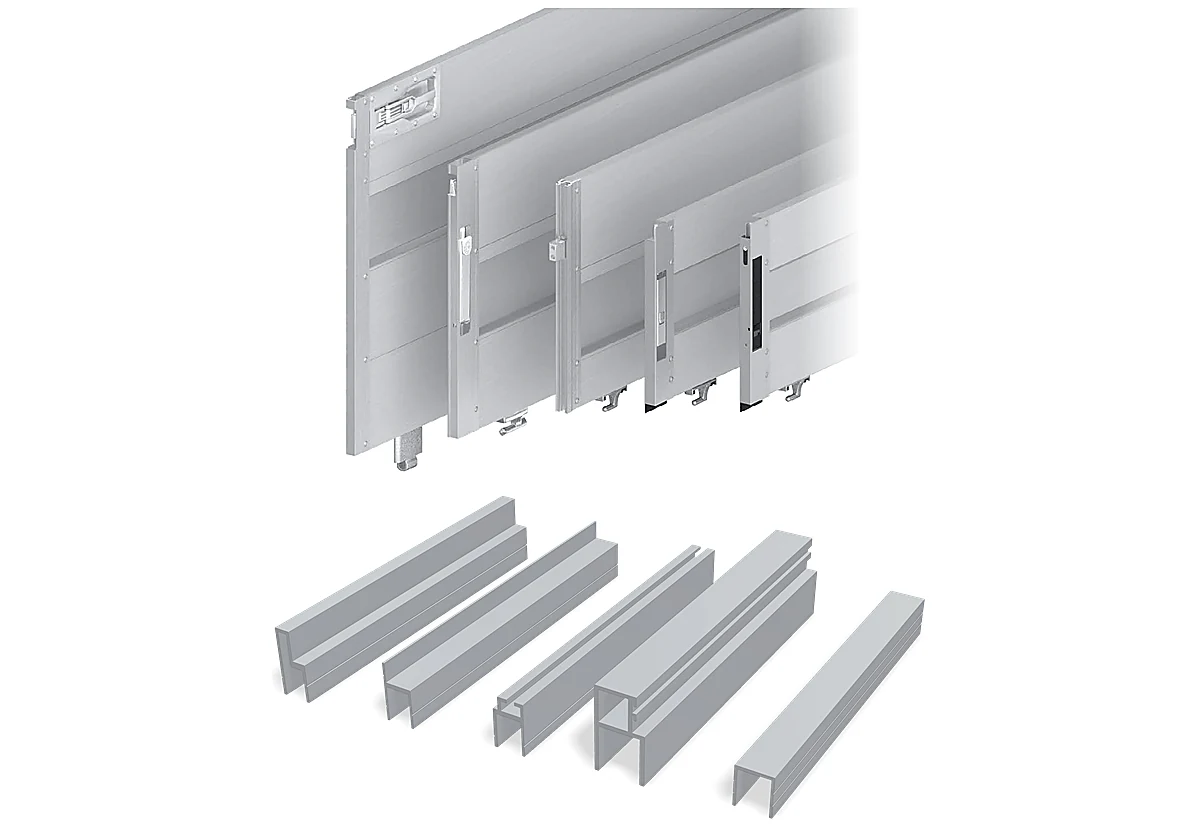
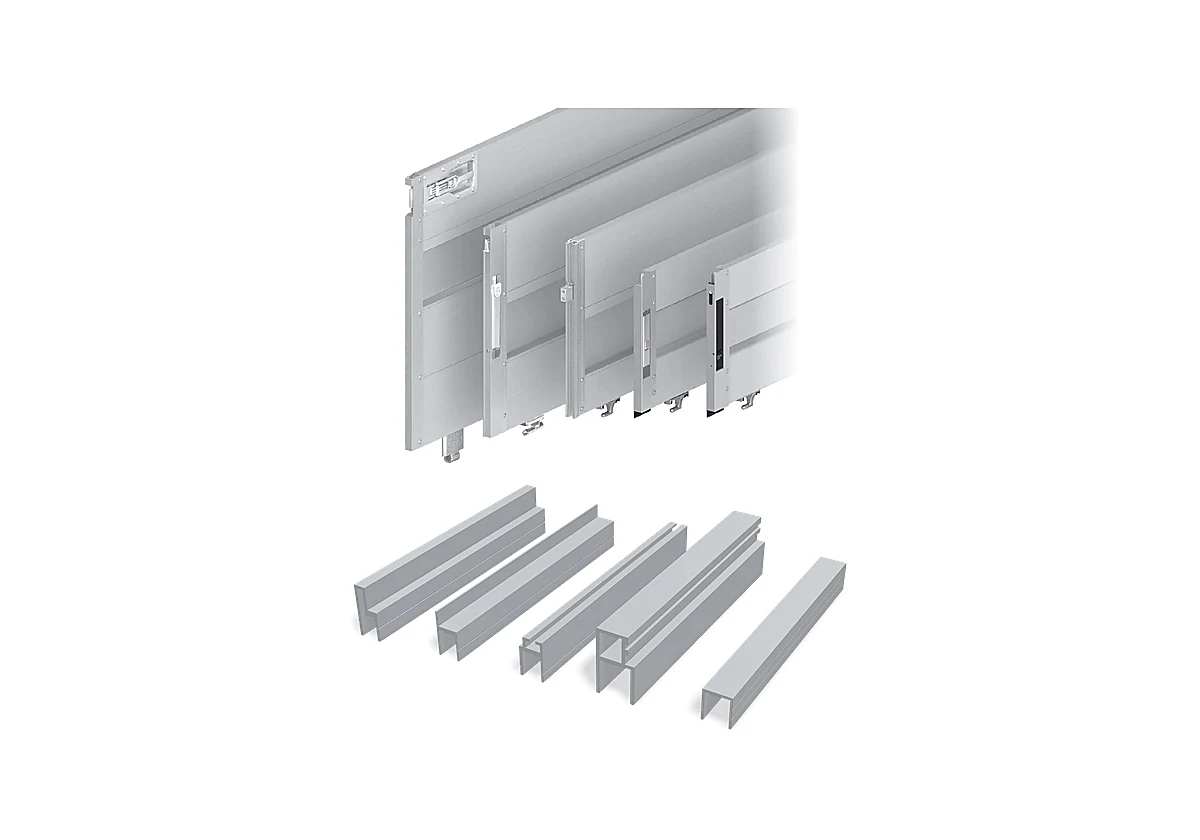
Oldalfal csoportkép: kicsinyítve, hogy a kártyák 16:9-es és 10:7-es vágásában is teljesen látsszon
Claude-Session: https://claude.ai/code/session_01GqcGcrqDWYvNfyrVUkczEM

Changed region(s): [[0.2775, 0.0, 0.7092, 0.5571], [0.2158, 0.5571, 0.7708, 0.9905]]

diff --git a/scripts/oldalfal_csoportkep.py b/scripts/oldalfal_csoportkep.py
@@ -73,12 +73,14 @@ def main():
     row, walls = profile_row(sys.argv[1]), side_walls()
     row = match_colors(row, walls)
     canvas = Image.new("RGBA", (W, H), (255, 255, 255, 255))
-    th, rh, gap = 470, 330, 14
+    # a kártyákon 16:9-re (katalógus) és 10:7-re (főoldal) vágva jelenik meg: a tartalom a középső 16:9-es sávba kerül
+    th, rh, gap = 360, 250, 14
     tw = round(walls.width * th / walls.height)
-    canvas.alpha_composite(walls.resize((tw, th), Image.LANCZOS), ((W - tw) // 2, 8))
-    rw = min(W - 40, round(row.width * rh / row.height))
+    rw = min(W - 80, round(row.width * rh / row.height))
     rh = round(row.height * rw / row.width)
-    canvas.alpha_composite(row.resize((rw, rh), Image.LANCZOS), ((W - rw) // 2, 8 + th + gap))
+    y0 = (H - (th + gap + rh)) // 2
+    canvas.alpha_composite(walls.resize((tw, th), Image.LANCZOS), ((W - tw) // 2, y0))
+    canvas.alpha_composite(row.resize((rw, rh), Image.LANCZOS), ((W - rw) // 2, y0 + th + gap))
     canvas = canvas.convert("RGB").filter(ImageFilter.UnsharpMask(1.3, 90, 2))  # az egész kép élesítve
     canvas.save(ROOT / "public/csoportkepek/ponyvas-oldalfal-profilok-es-szegok.webp", "WEBP", quality=88, method=6)
 
